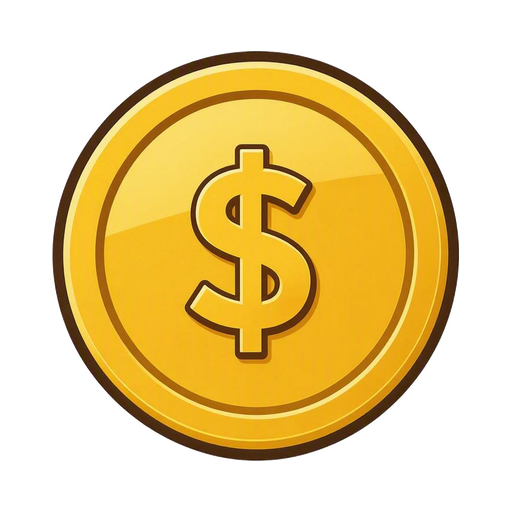
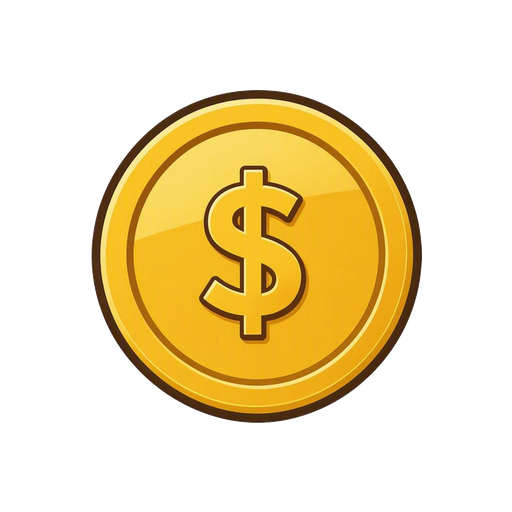
WIP

diff --git a/src/style.css b/src/style.css
@@ -732,8 +732,7 @@ body {
   font-weight: 900;
   color: var(--color-money-green);
   /* same green-fill + thick white outline cartoon-text look as the canvas HUD
-     total (hud/index.ts's drawCartoonText) / .popup__amount, just done with CSS
-     text-stroke here */
+     total (hud/index.ts's drawCartoonText), just done with CSS text-stroke here */
   -webkit-text-stroke: 3px var(--color-white);
   paint-order: stroke fill;
 }
@@ -891,86 +890,3 @@ body {
   flex-shrink: 0;
 }
 
-.popup {
-  position: fixed;
-  inset: 0;
-  z-index: 50; /* above the worker menu, since it's meant to greet the player before anything else */
-  display: flex;
-  align-items: center;
-  justify-content: center;
-}
-
-.popup[hidden] {
-  display: none; /* the [hidden] attribute's UA display:none loses to the class rule above without this */
-}
-
-.popup__backdrop {
-  position: absolute;
-  inset: 0;
-  background: rgba(0, 0, 0, 0.6);
-}
-
-.popup__panel {
-  position: relative;
-  width: min(90vw, 360px);
-  display: flex;
-  flex-direction: column;
-  align-items: center;
-  gap: 0.5rem;
-  /* same cartoon wood-board treatment as .worker-menu__panel, see comment there */
-  background: var(--color-wood-fill);
-  border: 4px solid var(--color-wood-outline);
-  border-radius: 1.25rem;
-  box-shadow:
-    0 0 0 10px var(--color-wood-ring),
-    0 0 0 14px var(--color-wood-outline),
-    0 22px 18px -6px rgba(0, 0, 0, 0.45);
-  color: var(--color-wood-text);
-  margin: 14px;
-  padding: 1.5rem;
-  text-align: center;
-}
-
-.popup__panel h2 {
-  margin: 0;
-}
-
-.popup__panel p {
-  margin: 0;
-}
-
-.popup__amount {
-  font-size: 2.25rem;
-  font-weight: 900;
-  color: var(--color-money-green);
-  /* same green-fill + thick white outline cartoon-text look as the canvas HUD
-     total (hud/index.ts's drawCartoonText), just done with CSS text-stroke here */
-  -webkit-text-stroke: 3px var(--color-white);
-  paint-order: stroke fill;
-}
-
-.popup__button {
-  margin-top: 0.5rem;
-  padding: 0.75rem 2rem;
-  /* same cream-ring + dark-outline treatment as .worker-menu__item, see comment there */
-  border: 3px solid var(--color-wood-outline);
-  border-radius: 0.75rem;
-  background: var(--color-amber-muted);
-  box-shadow:
-    0 0 0 4px var(--color-wood-ring),
-    0 0 0 7px var(--color-wood-outline),
-    0 4px 0 0 var(--color-amber-muted-shadow);
-  color: white;
-  font-weight: 600;
-  font-size: 1rem;
-  cursor: pointer;
-}
-
-.popup__button:active {
-  background: var(--color-amber-muted-active);
-  box-shadow:
-    0 0 0 4px var(--color-wood-ring),
-    0 0 0 7px var(--color-wood-outline),
-    0 2px 0 0 var(--color-amber-muted-shadow);
-  transform: translateY(2px);
-}

diff --git a/src/main.ts b/src/main.ts
@@ -40,7 +40,6 @@ import {
   wireTestButton,
   wireSpawnMouseButton,
   wireSpawnCritButton,
-  wireIdlePopupTestButton,
   wirePressConferenceTestButton,
   wireResetButton,
   createActionBarMarkup,
@@ -61,8 +60,6 @@ import {
   wirePressConferenceGame,
   createMapMenuMarkup,
   wireMapMenu,
-  createPopupMarkup,
-  showIdlePopup,
 } from "./hud";
 import {
   createGameCanvas,
@@ -113,7 +110,6 @@ async function main() {
     ${createCorporationBoostMenuMarkup()}
     ${createPressConferenceGameMarkup()}
     ${createMapMenuMarkup()}
-    ${createPopupMarkup()}
   `;
 
   const canvas = app.querySelector<HTMLCanvasElement>("#game-canvas")!;
@@ -308,10 +304,6 @@ async function main() {
       const floor = (buildings[activeBuildingIndex] ?? [])[0];
       if (floor) forceCritUpgrade(floor);
     });
-    wireIdlePopupTestButton(app, () => {
-      const testAmount = 12345;
-      showIdlePopup(app, testAmount, () => addTotalIncome(testAmount));
-    });
     wirePressConferenceTestButton(app, () => pressConferenceGame.open());
     wireResetButton(app, buildings);
   }
@@ -445,9 +437,7 @@ async function main() {
   // every floor's lastCollectedAt in memory, and that must land before a second quick
   // reload could otherwise re-collect the same already-paid-out idle time
   saveBuildings(buildings, activeCompanyIndex);
-  if (idleIncome > 0) {
-    showIdlePopup(app, idleIncome, () => addTotalIncome(idleIncome));
-  }
+  if (idleIncome > 0) addTotalIncome(idleIncome);
 
   gameCanvas.redraw();
 

diff --git a/src/hud/testButton/index.ts b/src/hud/testButton/index.ts
@@ -7,7 +7,6 @@ export function createTestButtonMarkup(): string {
       <button id="add-money" class="game__button">Add Money</button>
       <button id="spawn-mouse" class="game__button">Spawn Mouse</button>
       <button id="spawn-crit" class="game__button">Spawn Crit</button>
-      <button id="trigger-idle-popup" class="game__button">Idle Popup</button>
       <button id="test-press-conference" class="game__button">Press Conf Game</button>
       <button id="reset-game" class="game__button game__button--danger">Reset Game</button>
     </div>
@@ -35,16 +34,6 @@ export function wireSpawnCritButton(
   onClick: () => void,
 ): void {
   const button = container.querySelector<HTMLButtonElement>("#spawn-crit")!;
-  button.addEventListener("click", onClick);
-}
-
-export function wireIdlePopupTestButton(
-  container: HTMLElement,
-  onClick: () => void,
-): void {
-  const button = container.querySelector<HTMLButtonElement>(
-    "#trigger-idle-popup",
-  )!;
   button.addEventListener("click", onClick);
 }
 

diff --git a/src/hud/index.ts b/src/hud/index.ts
@@ -106,13 +106,11 @@ export {
 export type { PressConferenceGame } from "./pressConferenceGame";
 export { createMapMenuMarkup, wireMapMenu } from "./mapMenu";
 export type { MapMenu } from "./mapMenu";
-export { createPopupMarkup, showIdlePopup } from "./popup";
 export {
   createTestButtonMarkup,
   wireTestButton,
   wireSpawnMouseButton,
   wireSpawnCritButton,
-  wireIdlePopupTestButton,
   wirePressConferenceTestButton,
   wireResetButton,
 } from "./testButton";
